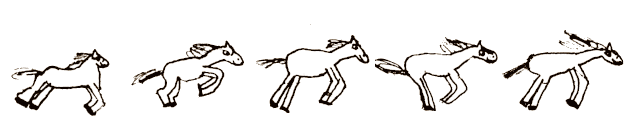
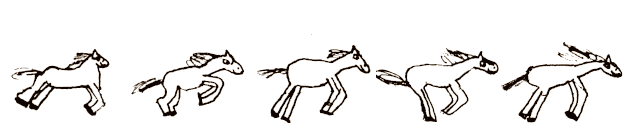
long time sync

Changed region(s): [[0.2128, 0.24, 1.0, 0.984]]

diff --git a/src/index.js b/src/index.js
@@ -1,111 +1,150 @@
 import Phaser from "phaser";
+import { Scene } from "phaser";
 import horseImg from "./assets/horse.png";
 import jumpImg from "./assets/jump.png";
 import backgroundImg from "./assets/ground.png";
 import obstaclesImg from "./assets/obstacles.png";
+import numbersImg from "./assets/numbers.png";
 
-var config = {
-    type: Phaser.AUTO,
-    width: 800,
-    height: 600,
-    physics: {
-        default: 'arcade',
-        arcade: {
-            debug: true,
-            gravity: { y: 600 }
-        }
-    },
-    scene: {
-        preload: preload,
-        create: create,
-        update: update
-    }
-};
+class GameScene extends Scene {
+  constructor(config) {
+    super(config);
+  }
 
-var game = new Phaser.Game(config);
-var background, obstacles = [], obstaclesGroup, horse;
-
-function collideWithObstacle(a) {
-  a.scene.endGame();
-}
-
-function update (time, delta) {
+  update(time, delta) {
     const cursors = this.input.keyboard.createCursorKeys();
-    if(this.running)
-      this.offset += delta*this.speed;
-    if (cursors.up.isDown && horse.body.touching.down)
-    {
-        horse.setVelocityY(-300);
-        horse.anims.play('jump');
-    } else if(horse.body.touching.down) {
-        horse.anims.play("walk", true);
-    }
-    background.setPosition(480-(this.offset%165), 560, 0)
 
-    if(obstacles.length<1) {
-      const sprite = obstaclesGroup.create(300,522,"obstacles",Math.floor(Math.random()*5));
-      sprite.enableBody(sprite);
-      sprite.body.allowGravity = false;
-      sprite.body.immovable = true;
-      sprite.body.setSize(10,10, 50, 50)
-      sprite.scored = false;
-      const obstacle = {
-        sprite,
-        start: this.offset
-      };
-      obstacles.push(obstacle)
-      console.log("added");
+    if(this.running) {
+      this.physics.world.timeScale *= 0.9999;
+      this.horse.anims.setTimeScale(1/this.physics.world.timeScale);
     }
-    for(var i=0; i<obstacles.length; i++) {
-      const pos = this.offset-obstacles[i].start;
-      if(pos>800) {
-        obstacles[i].sprite.destroy();
-        obstacles.splice(i,1);
-        console.log("removed");
-      } else {
-        obstacles[i].sprite.setPosition(800-pos,522)
+
+    if (cursors.up.isDown && this.horse.body.touching.down) {
+        this.horse.body.setVelocityY(-400);
+        this.horse.anims.play('jump');
+    } else if(this.horse.body.touching.down && this.speed>0) {
+        this.horse.anims.play("walk", true);
+    }
+
+    if(this.ground.x<=-165)
+      this.ground.setX(0)
+
+    if(this.obstacles.length<4 && Math.random()>0.98 && (this.obstacles.length===0 || this.obstacles[this.obstacles.length-1].x<550)) {
+      this.obstacles.push(this.createObstacle(Math.floor(Math.random()*5)))
+    }
+    for(var i=0; i<this.obstacles.length; i++) {
+      if(this.obstacles[i].x<260 && this.obstacles[i].value) {
+        this.score += this.obstacles[i].value;
+        this.obstacles[i].value = 0;
       }
+      if(this.obstacles[i].x>=-90) {
+        break;
+      }
+      this.obstacles[i].destroy();
+      this.obstacles.splice(i,1);
     }
-}
 
-function preload ()
-{
+    // Lerp score
+    const scoreDelta = this.score-this.displayedScore;
+    if(scoreDelta<=1) {
+      this.displayedScore = this.score;
+    } else {
+      this.displayedScore += scoreDelta*0.1;
+    }
+    var str = Math.floor(this.displayedScore).toString();
+    for(let i=str.length-1; i>=0; i--) {
+      this.counter[this.counter.length-str.length+i].setFrame(parseInt(str[i]));
+    }
+  }
+
+  createObstacle(frame) {
+    var positions = [
+      [15,60,80,60], 
+      [20,70,50,50], 
+      [25,90,60,30], 
+      [25,70,60,50], 
+      [5,80,110,30], 
+    ]
+    var values = [200, 50, 20, 50, 100];
+    var obstacle = this.physics.add.sprite(890, 650-(positions[frame][1]+positions[frame][3]), "obstacles", frame);
+    this.obstacleGroup.add(obstacle);
+    this.physics.add.existing(obstacle, false);
+    obstacle.body.setAllowGravity(false);
+    obstacle.body.setImmovable();
+    obstacle.body.setSize(positions[frame][2], positions[frame][3]);
+    obstacle.body.setOffset(positions[frame][0], positions[frame][1]);
+    obstacle.body.setVelocityX(-300);
+    obstacle.value = values[frame];
+    return obstacle
+  }
+
+  endGame() {
+    if(!this.running) return;
+    this.speed = 0;
+    this.running = false;
+    this.horse.anims.stop();
+    this.cameras.main.shake(100, 0.05, false, (_, i) => {
+      if(i<1) return;
+      this.scene.restart();
+    })
+  }
+
+  preload() {
     this.load.spritesheet('horse', horseImg, { frameWidth: 125, frameHeight: 125 })
     this.load.spritesheet('jump', jumpImg, { frameWidth: 125, frameHeight: 125 })
     this.load.spritesheet("obstacles", obstaclesImg, { frameWidth: 120, frameHeight: 120})
+    this.load.spritesheet("numbers", numbersImg, { frameWidth: 50, frameHeight: 50 });
     this.load.image("background", backgroundImg)
-}
-
-function create ()
-{
-  this.endGame = function() {
-    this.speed = 0;
-    this.running = false;
-    horse.anims.stop()
   }
-  this.running = true;
+
+
+  collideWithObstacle(a) {
+    this.endGame();
+  }
+
+  create () {
+    this.obstacles = []
+    this.running = true;
     this.speed = 0.2;
-    this.offset = 0;
+    this.score = 0;
+    this.displayedScore = 0;
+
+    this.physics.world.timeScale = 0.8;
+
     this.cameras.main.backgroundColor.setTo(255,255,255);
 
     // Obstacles
-    obstaclesGroup = this.physics.add.group();
+    this.obstacleGroup = this.physics.add.group();
 
-    // Fixed ground
-    const groundSprite = this.physics.add.staticImage(400, 585, null, null).setDisplaySize(800,5).refreshBody();
+    // Ground
+    this.ground = this.add.tileSprite(0, 520, 990, 60, 'background');
+    this.ground.setOrigin(0)
+    this.physics.add.existing(this.ground, false);
+    this.ground.body.setAllowGravity(false);
+    this.ground.body.setImmovable();
+    this.ground.body.setSize(960, 5);
+    this.ground.body.setOffset(0,70);
+    this.ground.body.setVelocityX(-250);
+    this.ground.body.setFriction(0,0);
+    this.ground.body.setDrag(0);
 
-    // Scrolling background
-    background = this.add.tileSprite(400, 540, 960, 60, 'background')
+    // Horse
+    this.horse = this.add.sprite(200, 510, 'horse')
+    this.physics.add.existing(this.horse, false);
+    this.horse.body.setEnable()
+    this.horse.body.setSize(60, 70);
+    this.horse.body.setOffset(30, 50);
 
-    // Running horse
-    horse = this.physics.add.sprite(150, 50, 'horse')
-    horse.body.setSize(100, 70);
-    horse.setCollideWorldBounds(true);
-    this.physics.add.collider(horse, obstaclesGroup, null, collideWithObstacle);
-    this.physics.add.collider(horse, groundSprite);
-    this.anims.create({
+    // Counter
+    this.counter = [];
+    for(let i=0; i<6; i++) {
+      this.counter[i] = this.add.image(500+50*i, 100, "numbers", 0);
+    }
+
+    // Create animations
+    var walk = this.anims.create({
         key: 'walk',
-        frames: this.anims.generateFrameNumbers('horse', { start: 0, end: 4 }),
+        frames: this.anims.generateFrameNumbers('horse', { start: 0, end: 4 }).reverse(),
         frameRate: 10,
         repeat: 0
     });
@@ -115,6 +154,35 @@ function create ()
         frameRate: 4,
         repeat: 0
     });
-    horse.anims.load('walk');
-    horse.anims.load('jump');
+    this.anims.load('walk');
+    this.anims.load('jump');
+
+    this.physics.add.collider(this.horse, this.obstacleGroup, null, t => this.collideWithObstacle());
+    this.physics.add.collider(this.horse, this.ground);
+  }
 }
+
+
+var game = new Phaser.Game({
+    type: Phaser.AUTO,
+    width: 800,
+    height: 600,
+    physics: {
+        default: 'arcade',
+        arcade: {
+            debug: false,
+            gravity: { y: 600 }
+        }
+    },
+    scene: {},
+    scale: {
+        mode: Phaser.Scale.FIT,
+        parent: 'phaser-example',
+        autoCenter: Phaser.Scale.CENTER_BOTH,
+        width: 800,
+        height: 600
+    }
+});
+game.scene.add('Main', new GameScene())
+game.scene.start("Main");
+
